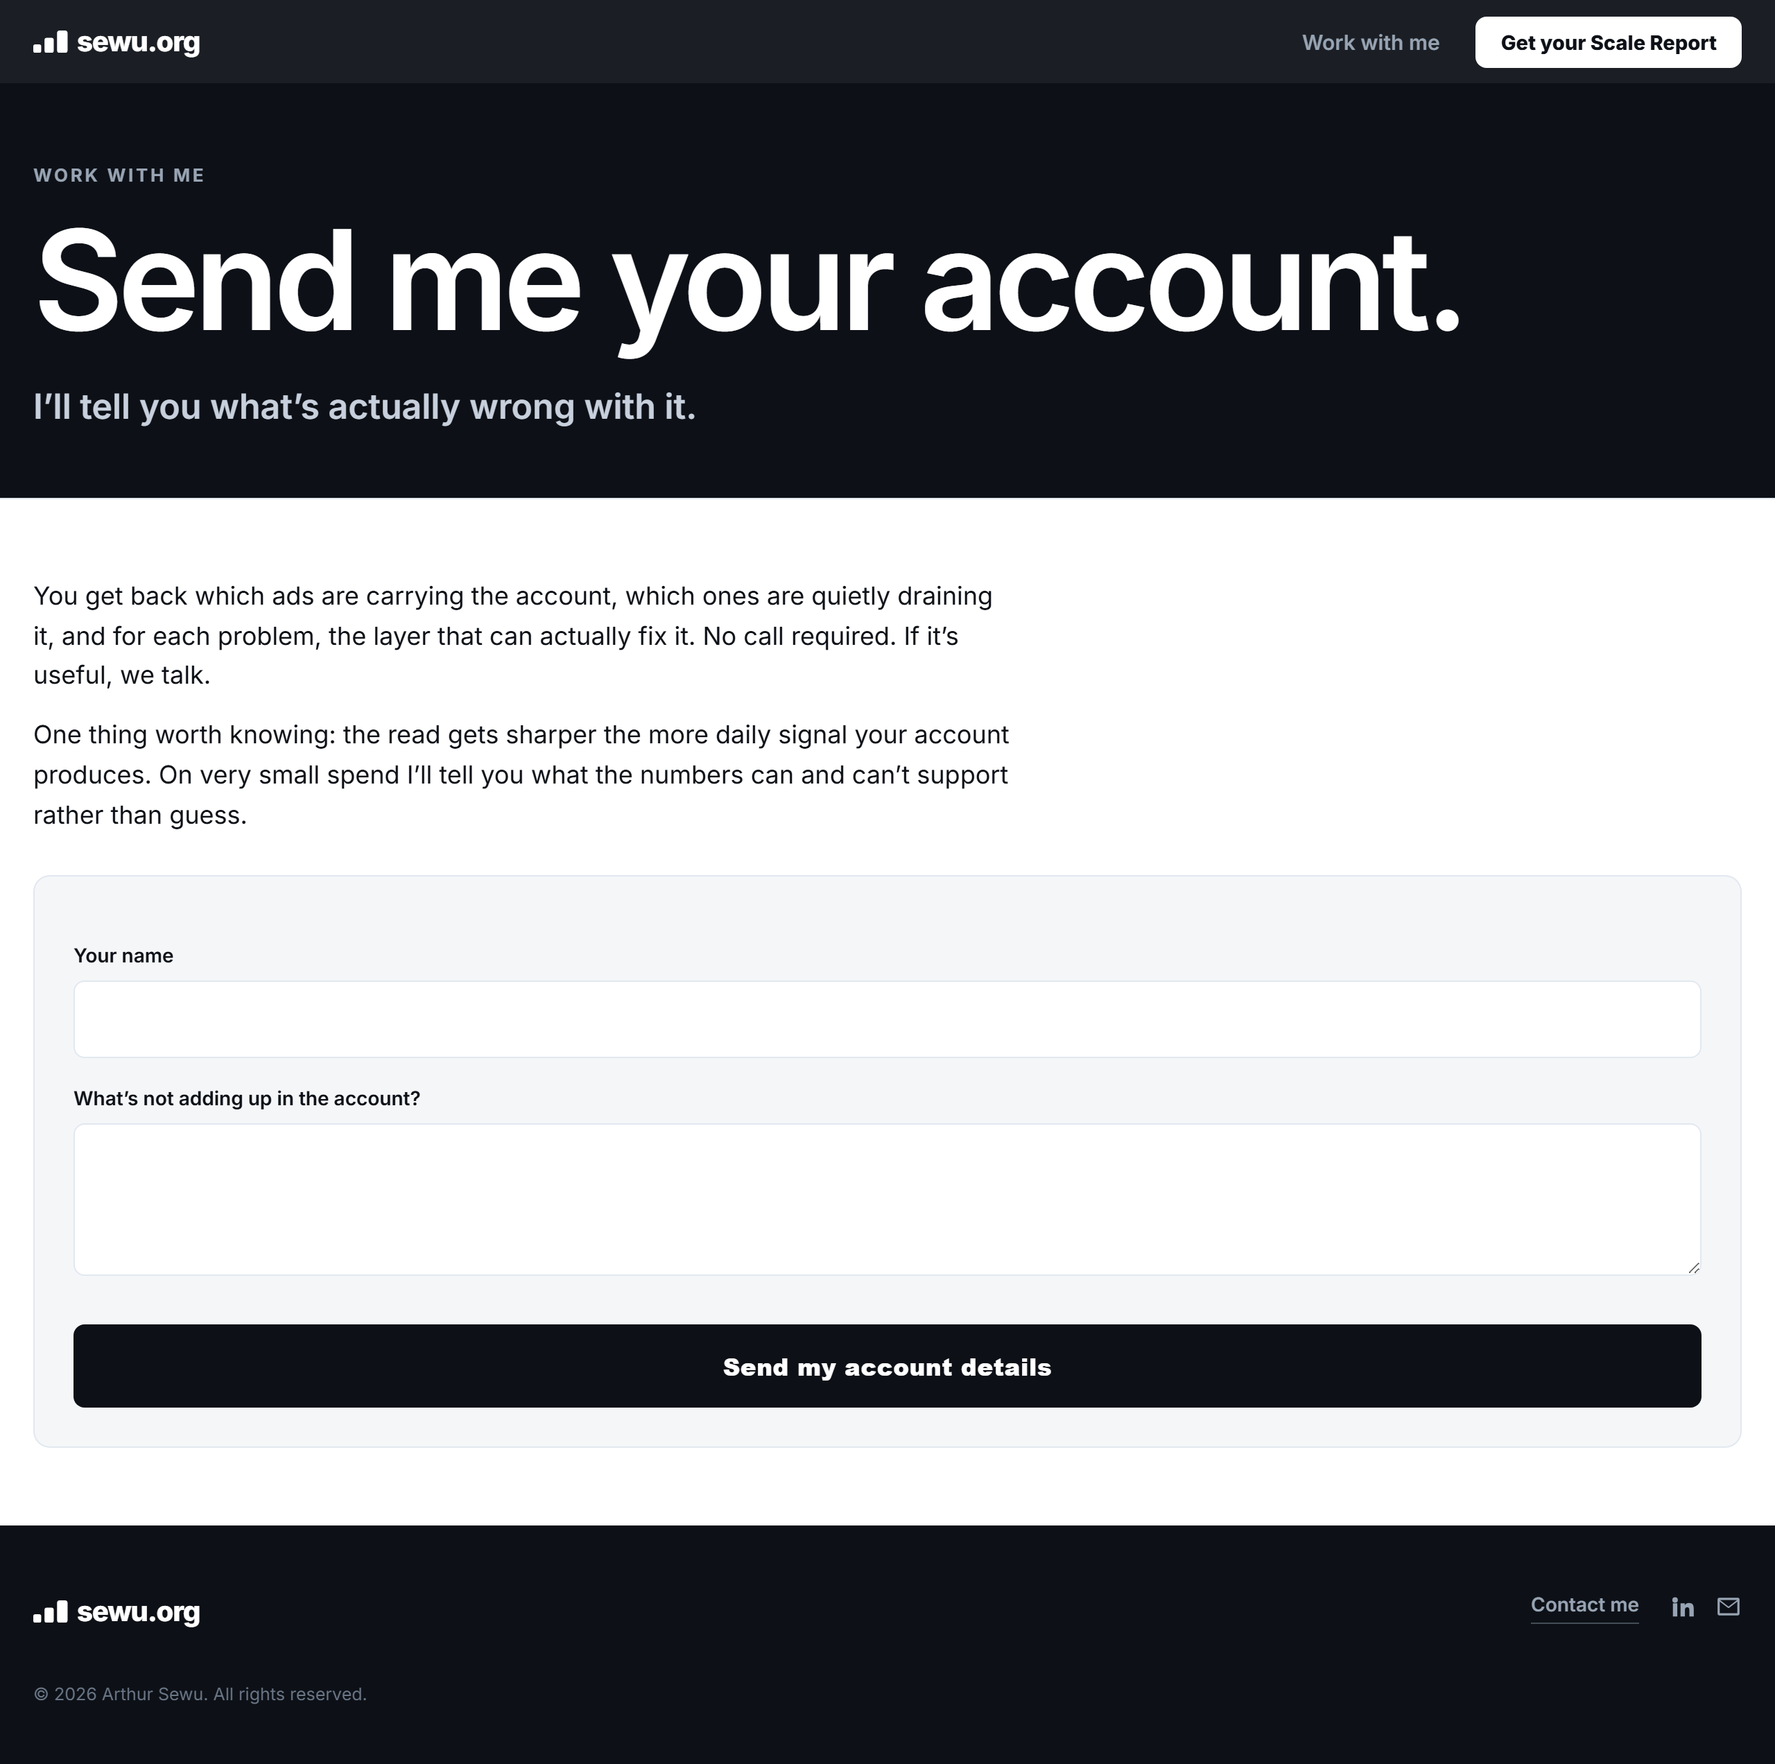
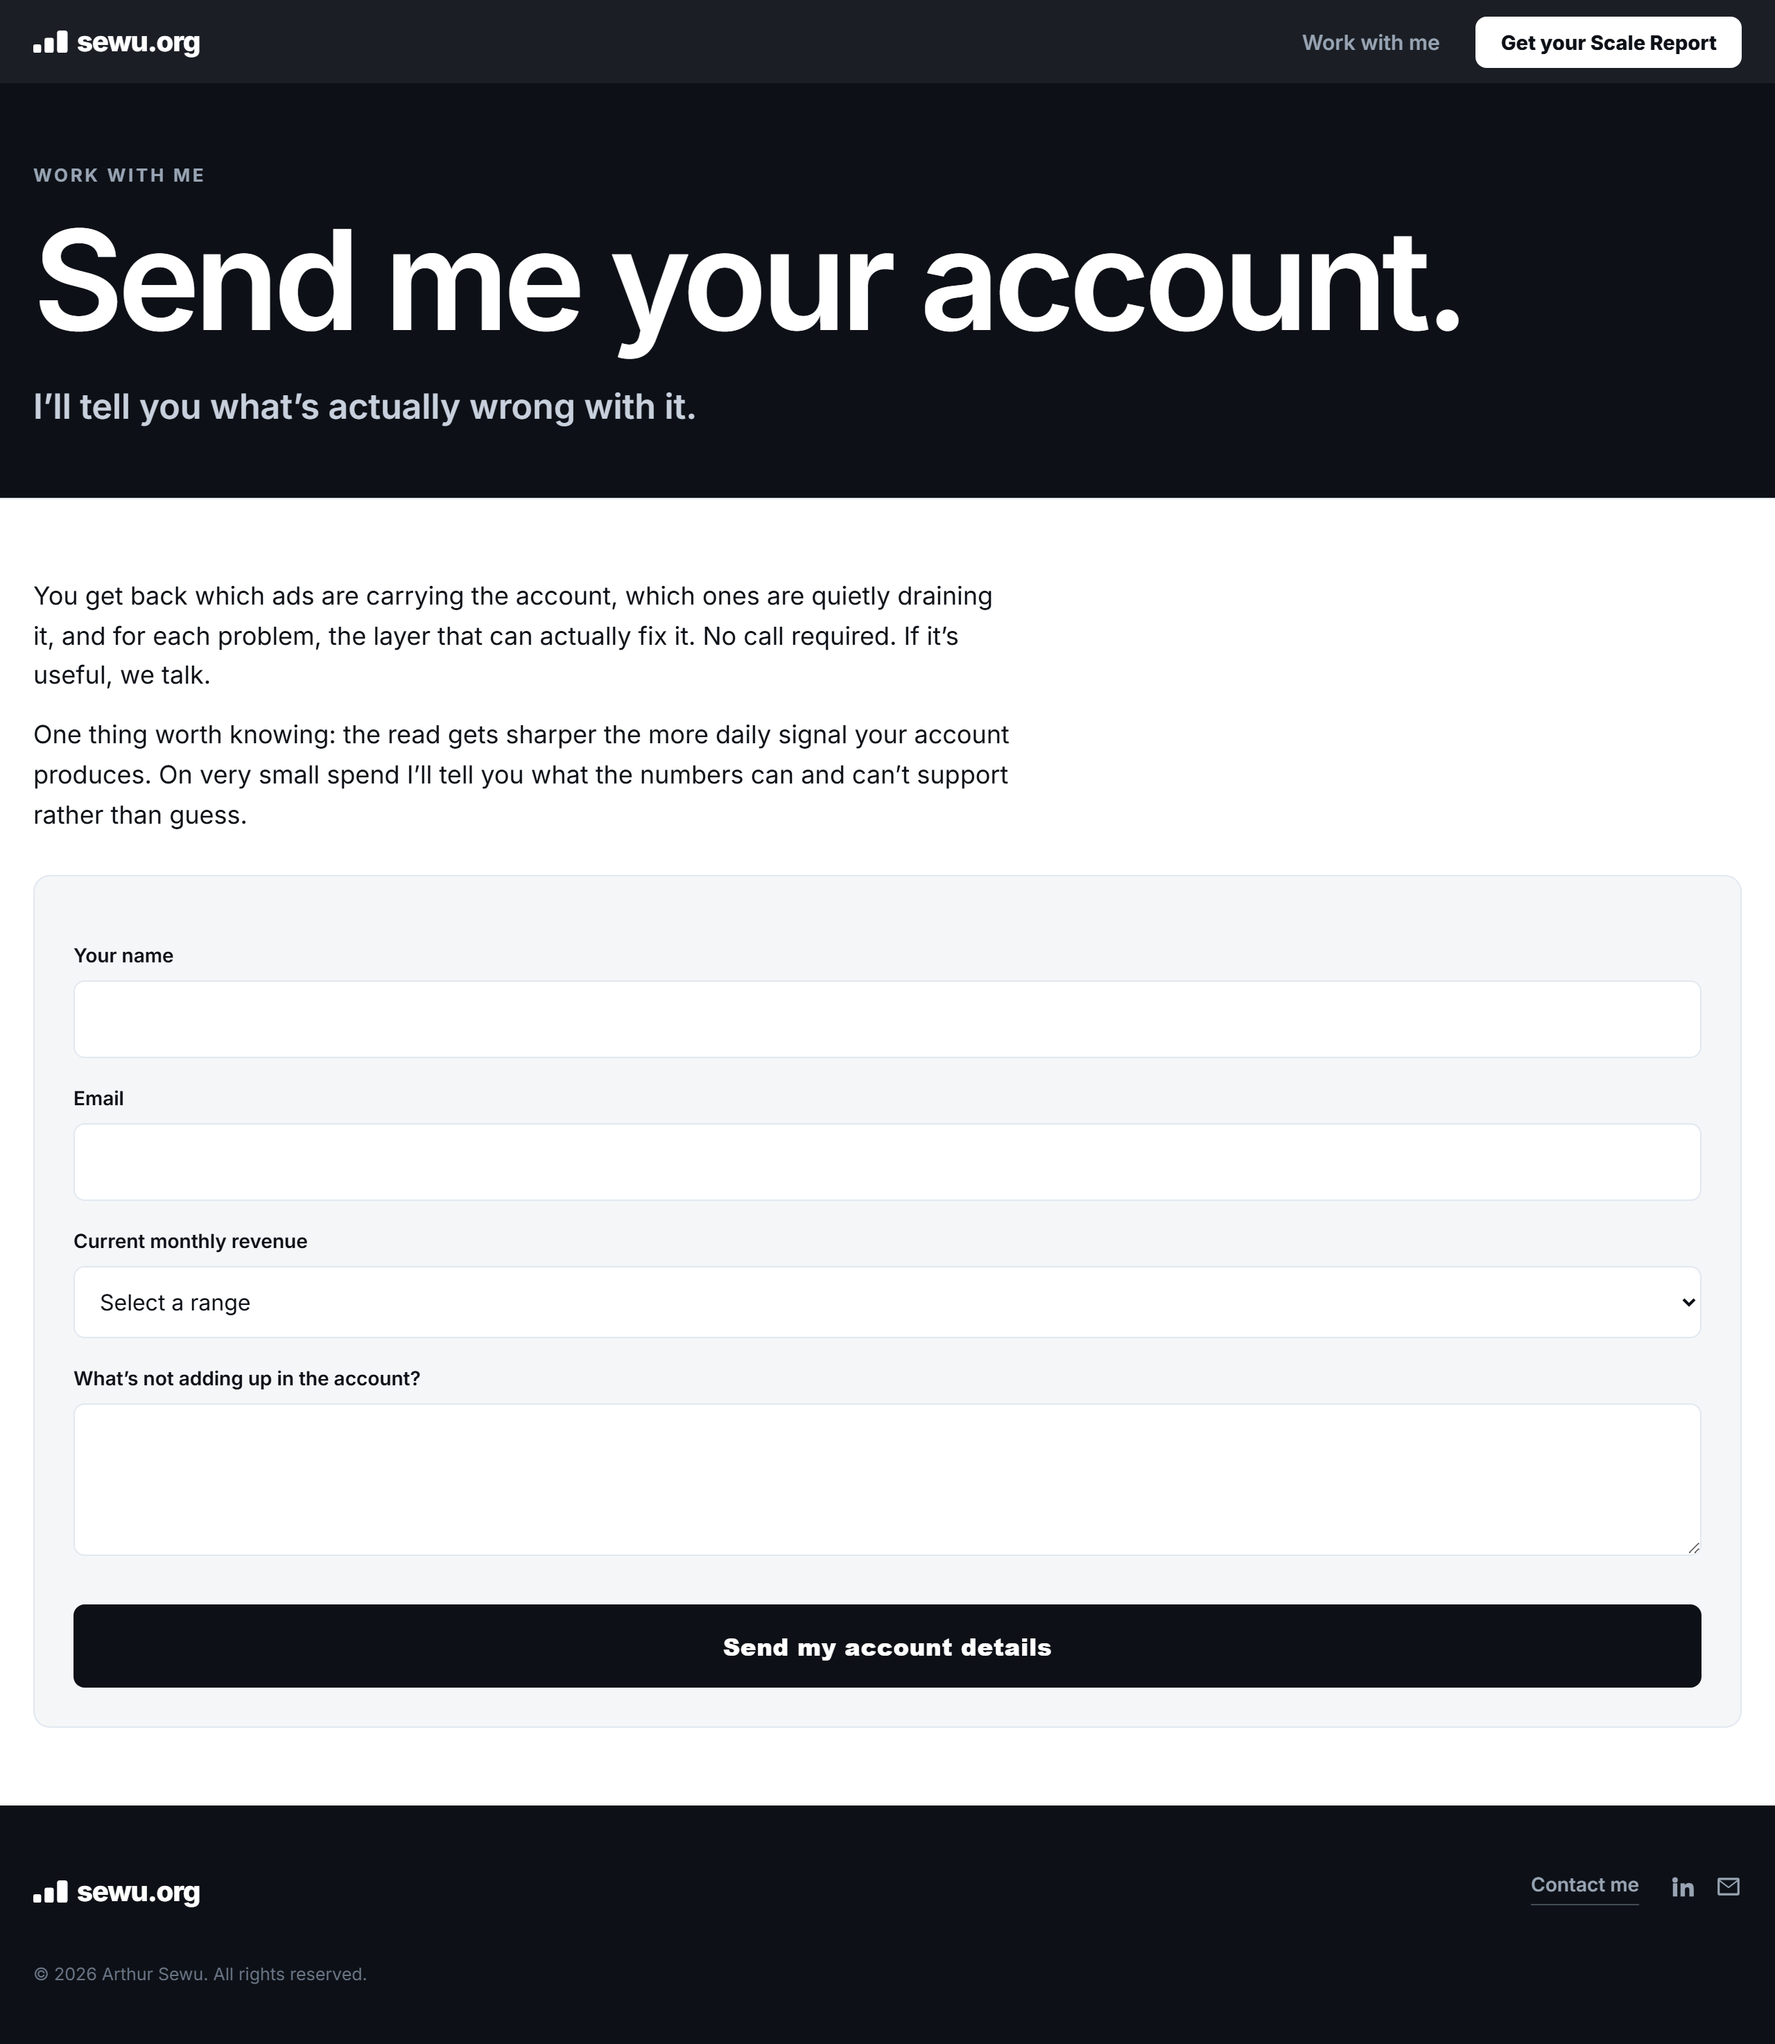
Rewrite /contact for what the page actually is
The copy was written for the free-ad-audit offer and never updated when the
page became Work with me. It described a deliverable you receive, plus a
caveat about how audit accuracy scales with daily spend - neither of which
belongs on a page whose job is starting a conversation.

Submit button drops btn-block; at 1174px in a 1232px form it read as a
broken bar rather than a button.

diff --git a/contact/index.html b/contact/index.html
@@ -42,15 +42,13 @@
     <section class="hero-band">
         <div class="wrap doc">
             <p class="eyebrow">Work with me</p>
-            <h1>Send me your account.</h1>
-            <p class="lead">I&rsquo;ll tell you what&rsquo;s actually wrong with it.</p></div>
+            <h1>Tell me what is going on.</h1>
+            <p class="lead">I&rsquo;ll tell you what I think is actually happening, and whether I&rsquo;m the right person for it.</p></div>
     </section>
     <section>
         <div class="wrap doc">
-            <p>You get back which ads are carrying the account, which ones are quietly draining it, and for each
-                problem, the layer that can actually fix it. No call required. If it&rsquo;s useful, we talk.</p>
-            <p>One thing worth knowing: the read gets sharper the more daily signal your account produces. On very
-                small spend I&rsquo;ll tell you what the numbers can and can&rsquo;t support rather than guess.</p>
+                        
+            <p>Four questions. No call to get started, and no pitch if I do not think I can help.</p>
 
             <form action="https://formsubmit.co/arthur@sewu.org" method="POST">
                 <input type="hidden" name="_subject" value="New audit request from sewu.org">
@@ -77,7 +75,7 @@
                 <label for="stuck">What&rsquo;s not adding up in the account?</label>
                 <textarea id="stuck" name="bottleneck" required></textarea>
 
-                <button class="btn btn-block" type="submit">Send my account details</button>
+                <button class="btn" type="submit">Send it over</button>
             </form>
         </div>
     </section>
